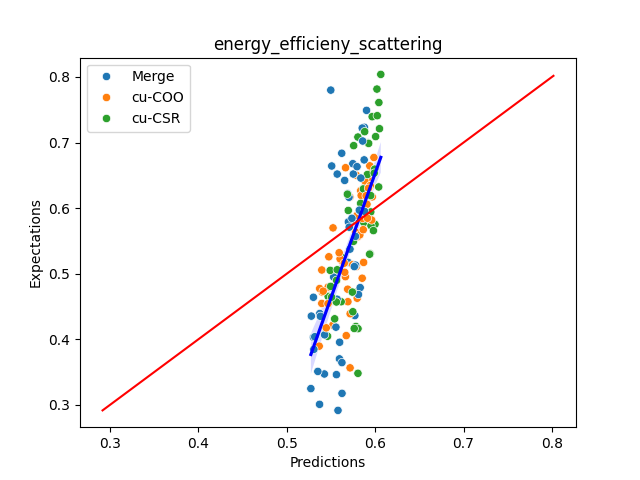
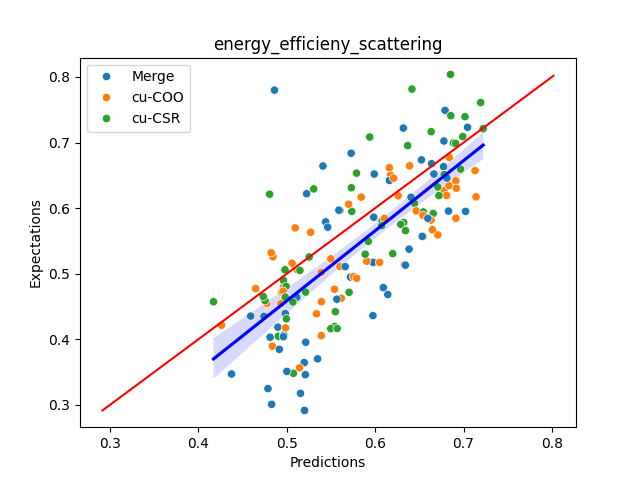
Fixing avg loss feature

diff --git a/Performance_predictors/main.py b/Performance_predictors/main.py
@@ -52,7 +52,7 @@ if __name__ == "__main__":
             path = g.MODEL_PATH + "{}/mlp".format(system_used)
             runners.plot_prediction_dispersion_mlp(model, validation_dataset, name, path)
             avg_loss = runners.average_loss_mlp(model, validation_dataset)
-            print("Avg loss of model mlp :", avg_loss)
+            print("Avg loss of model mlp : {}%".format(avg_loss.detach().tolist()*100))
         
         elif model_used == "tree":
             csv_path_validation = g.DATA_PATH + "/validation/all_format/all_format_{}.csv".format(system_used)
@@ -96,7 +96,7 @@ if __name__ == "__main__":
 
         # Computing average loss on validation dataset
         avg_loss = runners.average_loss_mlp(mlp_model, validation_dataset)
-        print("Avg loss of model mlp :", avg_loss)
+        print("Avg loss of model mlp :{}¨%".format(avg_loss.tolist()*100))
         
     elif model_used == "svr":
         print("running Support Vector Regression model")
@@ -120,7 +120,7 @@ if __name__ == "__main__":
 
         # Computing average loss on validation dataset
         avg_loss : torch.Tensor = runners.average_loss_sklearn(model_gflops, validation_dataset, 0)
-        print("Avg loss of svr model on gflops :", avg_loss.tolist())
+        print("Avg loss of svr model on gflops : {}%".format(avg_loss.tolist()))
 
         print("Running svr on energy efficiency predictions")
         # Running model
@@ -138,7 +138,7 @@ if __name__ == "__main__":
 
         # Computing average loss on validation dataset
         avg_loss : torch.Tensor = runners.average_loss_sklearn(model_energy_efficiency, validation_dataset, 1)
-        print("Avg loss of svr model on energy_efficiency:", avg_loss.tolist())
+        print("Avg loss of svr model on energy_efficiency : {}%".format(avg_loss.tolist()))
 
     elif model_used == "tree":
         print("running decision trees")
@@ -157,7 +157,7 @@ if __name__ == "__main__":
 
         # Computing average loss on validation dataset
         avg_loss : torch.Tensor = runners.average_loss_sklearn(tree_gflops, validation_dataset, 0)
-        print("Avg loss of tree model on gflops :", avg_loss.tolist())
+        print("Avg loss of tree model on gflops : {}%".format(avg_loss.tolist()))
 
 
         # Running model
@@ -170,4 +170,4 @@ if __name__ == "__main__":
 
         # Computing average loss on validation dataset
         avg_loss : torch.Tensor = runners.average_loss_sklearn(tree_energy_efficiency, validation_dataset, 1)
-        print("Avg loss of tree model on energy efficiency:", avg_loss.tolist())
+        print("Avg loss of tree model on energy efficiency : {}%".format(avg_loss.tolist()))

diff --git a/Performance_predictors/dataReader.py b/Performance_predictors/dataReader.py
@@ -42,12 +42,12 @@ class SparseMatrixDataset(Dataset):
         
         # Scaling gflops output
         gflops = self.dataframe[["gflops"]].values
-        self.scaler_gflops = preprocessing.MinMaxScaler().fit(gflops)
+        self.scaler_gflops = preprocessing.StandardScaler().fit(gflops)
         gflops_scaled = torch.tensor(self.scaler_gflops.transform(gflops), dtype=torch.float32)
 
         # Scaling energy_efficiency output
         energy_efficiency = torch.tensor(self.dataframe[["energy_efficiency"]].values, dtype=torch.float32)
-        self.scaler_energy_efficiency = preprocessing.MinMaxScaler().fit(energy_efficiency)
+        self.scaler_energy_efficiency = preprocessing.StandardScaler().fit(energy_efficiency)
         energy_efficiency_scaled = torch.tensor(self.scaler_energy_efficiency.transform(energy_efficiency), dtype=torch.float32)
 
         # Adding the scaled glops and energy_efficiency to output
@@ -56,7 +56,7 @@ class SparseMatrixDataset(Dataset):
     
 
     def scale_row(self, row):
-        scaler = preprocessing.MinMaxScaler()
+        scaler = preprocessing.StandardScaler()
         row_scaled = scaler.fit_transform(row.reshape(-1, 1))
         return row_scaled, scaler
     

diff --git a/Performance_predictors/model_runners.py b/Performance_predictors/model_runners.py
@@ -283,7 +283,8 @@ def average_loss_mlp(model:torch.nn.Module, validation_dataset:db.SparseMatrixDa
     for idx in range(length_dataset):
         (X, Y) = validation_dataset[idx]
         y_pred = model(X)
-        avg_loss_lst.append(MAPELoss(y_pred.detach(), Y).tolist())
+        loss = MAPELoss(y_pred.detach(), Y)
+        avg_loss_lst.append(loss)
     return sum(avg_loss_lst)/len(avg_loss_lst)
 
 def average_loss_sklearn(model:torch.nn.Module, validation_dataset:db.SparseMatrixDataset, out_feature:int):
@@ -294,5 +295,6 @@ def average_loss_sklearn(model:torch.nn.Module, validation_dataset:db.SparseMatr
         (X, Y) = validation_dataset[idx]
         input = np.array([X.numpy()])
         y_pred = torch.tensor(model(input))
-        avg_loss_lst.append(MAPELoss(Y[out_feature], y_pred))
+        loss = MAPELoss(Y[out_feature], y_pred)
+        avg_loss_lst.append(loss)
     return sum(avg_loss_lst)/len(avg_loss_lst)

diff --git a/Performance_predictors/MLP/globals.py b/Performance_predictors/MLP/globals.py
@@ -1,6 +1,6 @@
 import torch
 
-nb_epochs = 100
+nb_epochs = 1
 lr = 0.01
 loss_fn = torch.nn.MSELoss()
 activation_fn = torch.nn.Sigmoid()
